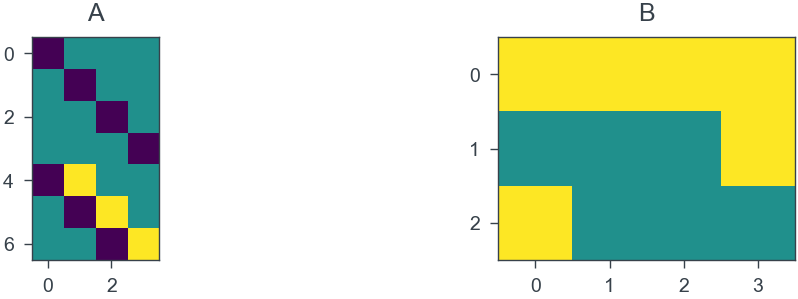
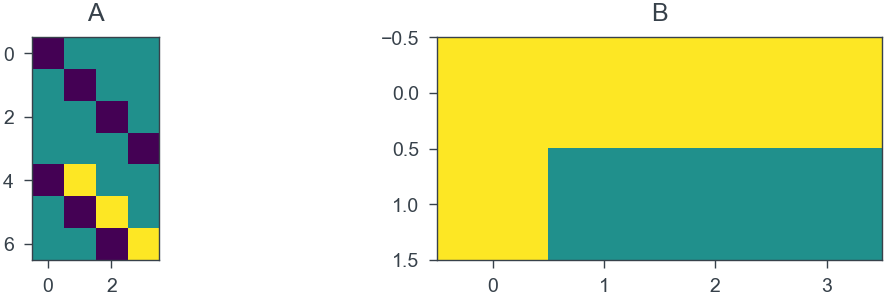
fixed that bad boy

diff --git a/Input.py b/Input.py
@@ -51,10 +51,12 @@ def createMatrices(Ingredients, givenAmounts, page: ft.Page, recipe_name: str):
 
     # other equalities given by the givenAmounts:
     for i in range(D):
-        if givenAmounts[i] != 0:
+        if givenAmounts[i] != None:
             B[n - 1, i] = 1
             b[n - 1] = givenAmounts[i]
             n -= 1
+
+    MainCode.Main(Ingredients, A, a, B, b, page, recipe_name)
 
     # plt.rcParams.update(bundles.beamer_moml(rel_height=0.5))
     # # Set font because it uses a font which is not on every computer
@@ -66,13 +68,12 @@ def createMatrices(Ingredients, givenAmounts, page: ft.Page, recipe_name: str):
     # axs[1].set_title("B")
     # # fig.colorbar(imA, ax=axs[1]);
     # plt.savefig("matrices.pdf")
-    MainCode.Main(Ingredients, A, a, B, b, page, recipe_name)
     #return A, a, B, b
 
 
 def parseInput(input, page: ft.Page, recipe_name: str):
     stringArray = [item[0] for item in input]
-    numberArray = [float(item[1]) for item in input]
+    numberArray = [float(item[1]) if item[1] != '' else None for item in input]
     createMatrices(stringArray, numberArray, page, recipe_name)
 
 
@@ -89,7 +90,7 @@ Ingredients = [
         "Agavendicksaft",
         "geräuchertes Meersalz",
     ]
-givenAmounts = [0.63, 0, 0, 0, 0, 0, 0, 0.016]
+givenAmounts = [0.63, None, None, None, None, None, None, 0.016]
 
 #A, a, B, b = createMatrices(Ingredients, givenAmounts)
 # MainCode.Main(Ingredients, A, a, B, b)

diff --git a/frontend/WebInput.py b/frontend/WebInput.py
@@ -5,12 +5,11 @@ import os
 sys.path.append(os.path.dirname(os.path.dirname(os.path.realpath(__file__))))
 import Input
 
-import Input
-
 def main(page: ft.Page):
     # path to Hacking-Food-Recipes
     path = os.path.dirname(os.path.dirname(os.path.realpath(__file__)))
     page.scroll = ft.ScrollMode.ADAPTIVE
+    page.theme_mode = "dark"
     # List to store input rows
     input_rows = []
 
